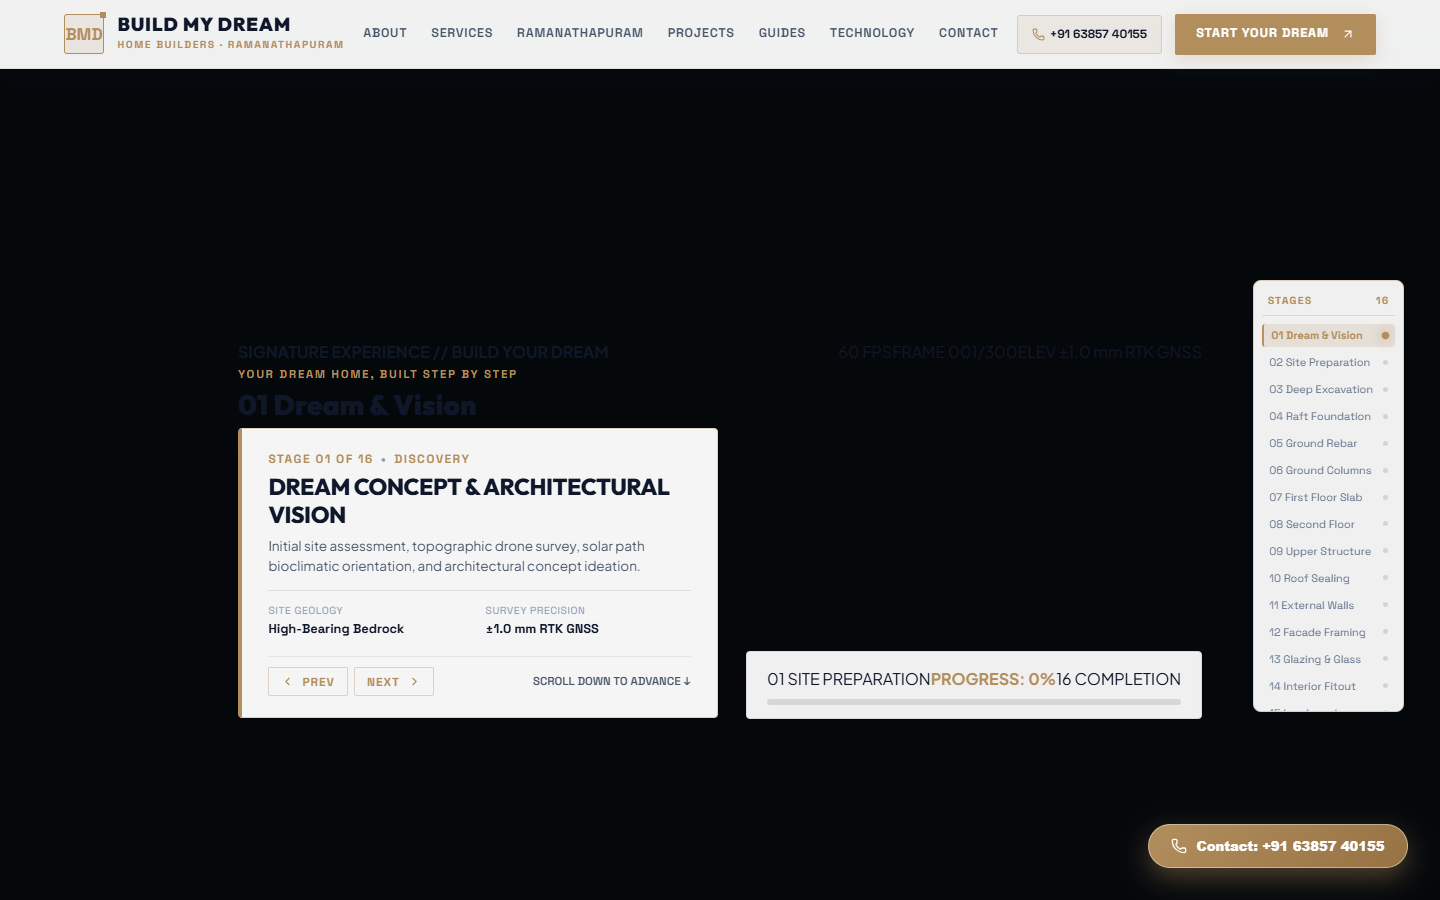
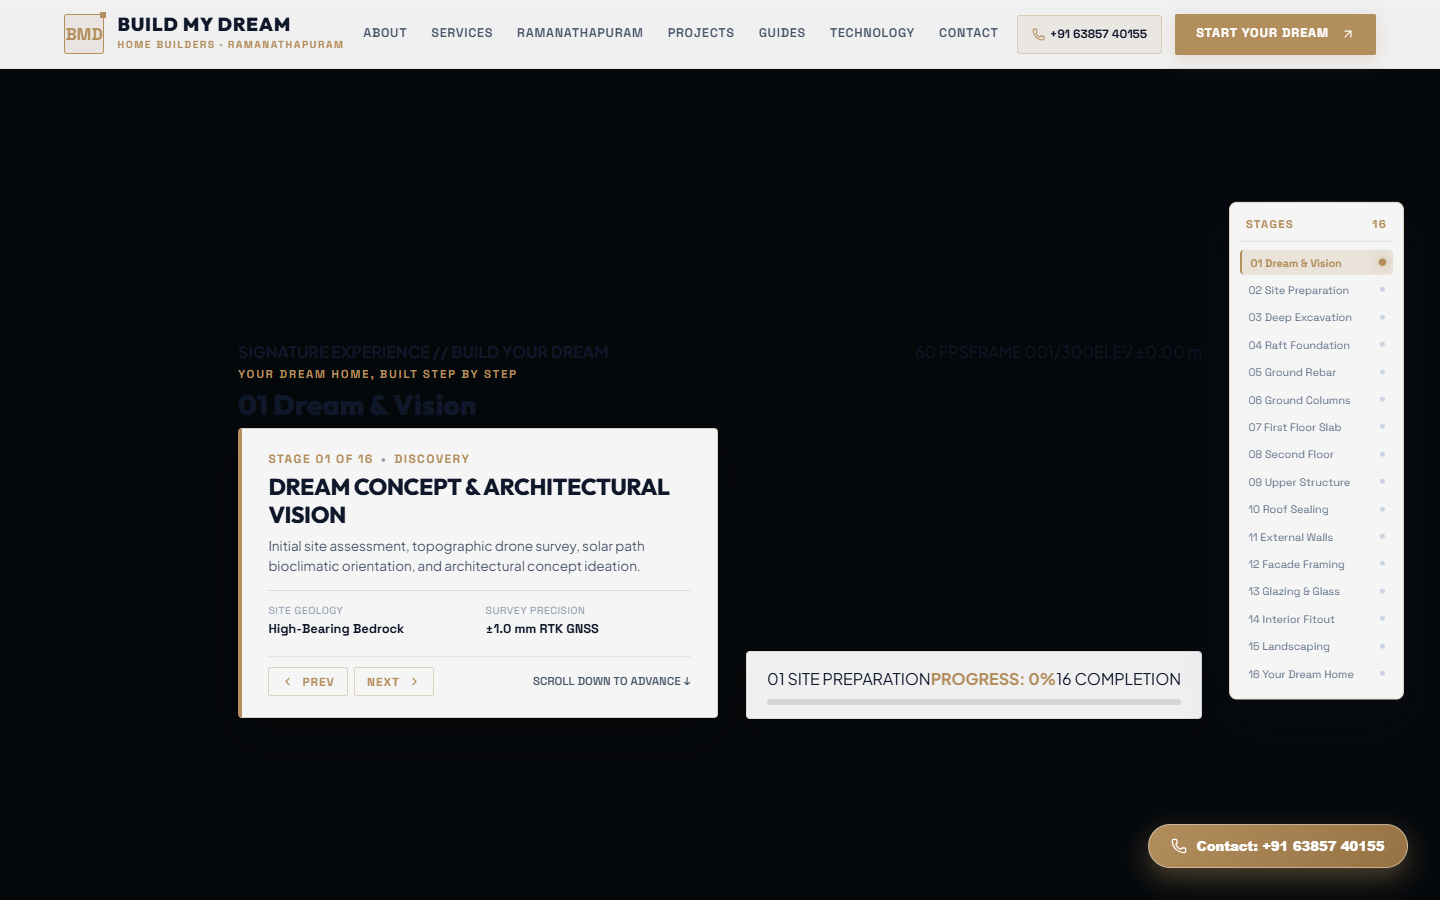
fix: resolve stage tracking and smooth auto-scrolling synchronization in construction scrubber

Changed region(s): [[0.8438, 0.2178, 1.0, 0.8089], [0.625, 0.3733, 0.6562, 0.4044]]

diff --git a/src/components/construction/ConstructionCanvasScrubber.jsx b/src/components/construction/ConstructionCanvasScrubber.jsx
@@ -7,6 +7,7 @@ import '../../styles/canvas.css';
 export function ConstructionCanvasScrubber() {
   const canvasRef = useRef(null);
   const containerRef = useRef(null);
+  const stepperRef = useRef(null);
   const { images, progress, isTier1Ready, isFullyLoaded, totalFrames } = useFramePreloader();
   
   const [currentFrameIndex, setCurrentFrameIndex] = useState(0);
@@ -25,7 +26,7 @@ export function ConstructionCanvasScrubber() {
 
     let img = images[frameIndex];
     if (!img || !img.complete || img.naturalWidth === 0) {
-      for (let offset = 1; offset < 25; offset++) {
+      for (let offset = 1; offset < 35; offset++) {
         const prev = images[Math.max(0, frameIndex - offset)];
         if (prev && prev.complete && prev.naturalWidth > 0) {
           img = prev;
@@ -70,7 +71,7 @@ export function ConstructionCanvasScrubber() {
       drawY = 0;
     }
 
-    ctx.fillStyle = '#FAFAF9';
+    ctx.fillStyle = '#0F172A';
     ctx.fillRect(0, 0, width, height);
 
     ctx.imageSmoothingEnabled = true;
@@ -84,17 +85,17 @@ export function ConstructionCanvasScrubber() {
   useEffect(() => {
     const loop = () => {
       const diff = targetFrameRef.current - displayedFrameRef.current;
-      if (Math.abs(diff) > 0.05) {
+      if (Math.abs(diff) > 0.04) {
         displayedFrameRef.current += diff * 0.18;
         const frameToRender = Math.min(totalFrames - 1, Math.max(0, Math.round(displayedFrameRef.current)));
         setCurrentFrameIndex(frameToRender);
         renderCanvas(frameToRender);
 
         const currentStage = CONSTRUCTION_STAGES.find(
-          (s) => frameToRender >= s.frameStart && frameToRender <= s.frameEnd
-        ) || CONSTRUCTION_STAGES[CONSTRUCTION_STAGES.length - 1];
+          (s) => frameToRender >= (s.startFrame ?? s.frameStart ?? 0) && frameToRender <= (s.endFrame ?? s.frameEnd ?? 299)
+        ) || CONSTRUCTION_STAGES[0];
 
-        setActiveStage(currentStage);
+        setActiveStage((prev) => (prev.id !== currentStage.id ? currentStage : prev));
         setScrubProgress(Math.round((frameToRender / (totalFrames - 1)) * 100));
       }
       animFrameIdRef.current = requestAnimationFrame(loop);
@@ -105,6 +106,16 @@ export function ConstructionCanvasScrubber() {
       if (animFrameIdRef.current) cancelAnimationFrame(animFrameIdRef.current);
     };
   }, [renderCanvas, totalFrames]);
+
+  // Auto-scroll the active stage button inside the right-hand stepper list
+  useEffect(() => {
+    if (stepperRef.current) {
+      const activeEl = stepperRef.current.querySelector('.timeline-step-btn.active');
+      if (activeEl) {
+        activeEl.scrollIntoView({ block: 'nearest', behavior: 'smooth' });
+      }
+    }
+  }, [activeStage]);
 
   // Scroll listener mapped to 0..299 frames
   useEffect(() => {
@@ -128,14 +139,21 @@ export function ConstructionCanvasScrubber() {
     return () => window.removeEventListener('scroll', handleScroll);
   }, [totalFrames]);
 
+  // Jump to specific milestone smoothly
   const jumpToStage = (stage) => {
-    const target = stage.frameStart;
-    targetFrameRef.current = target;
+    const start = stage.startFrame ?? stage.frameStart ?? 0;
+    targetFrameRef.current = start;
     const container = containerRef.current;
     if (container) {
+      const containerTop = container.getBoundingClientRect().top + window.scrollY;
       const scrollableDist = container.offsetHeight - window.innerHeight;
-      const targetScroll = container.offsetTop + (target / (totalFrames - 1)) * scrollableDist;
-      window.scrollTo({ top: targetScroll, behavior: 'smooth' });
+      const targetScroll = containerTop + (start / (totalFrames - 1)) * scrollableDist;
+
+      if (window.__lenis) {
+        window.__lenis.scrollTo(targetScroll, { duration: 1.0 });
+      } else {
+        window.scrollTo({ top: targetScroll, behavior: 'smooth' });
+      }
     }
   };
 
@@ -160,9 +178,9 @@ export function ConstructionCanvasScrubber() {
         ref={containerRef}
         className="scrubber-section"
         style={{
-          height: '420vh',
+          height: '450vh',
           position: 'relative',
-          backgroundColor: '#FAFAF9',
+          backgroundColor: '#0F172A',
           borderTop: '1px solid rgba(15, 23, 42, 0.08)',
           borderBottom: '1px solid rgba(15, 23, 42, 0.08)'
         }}
@@ -199,7 +217,7 @@ export function ConstructionCanvasScrubber() {
                 <div className="hud-telemetry">
                   <span>60 FPS</span>
                   <span>FRAME {String(currentFrameIndex + 1).padStart(3, '0')}/300</span>
-                  <span>ELEV {activeStage.specs?.[1]?.value || '±0.00m'}</span>
+                  <span>ELEV {activeStage.elevation || '±0.00m'}</span>
                 </div>
               </div>
 
@@ -214,7 +232,7 @@ export function ConstructionCanvasScrubber() {
               </div>
 
               {/* Right Vertical Timeline Navigation Dock */}
-              <div className="hud-timeline-stepper">
+              <div ref={stepperRef} className="hud-timeline-stepper desktop-only">
                 <div className="hud-timeline-header">
                   <span>STAGES</span>
                   <span style={{ color: 'var(--accent-gold)', fontWeight: 800 }}>16</span>

diff --git a/src/styles/canvas.css b/src/styles/canvas.css
@@ -130,35 +130,51 @@
 /* Right Side: Interactive Milestone Stepper Dock (White Frosted) */
 .hud-timeline-stepper {
   position: absolute;
-  right: clamp(1rem, 2.5vw, 2.5rem);
-  top: 55%;
+  right: clamp(0.75rem, 2.5vw, 2.5rem);
+  top: 50%;
   transform: translateY(-50%);
   display: flex;
   flex-direction: column;
-  gap: 0.25rem;
-  z-index: 20;
-  max-height: 48vh;
+  gap: 0.2rem;
+  z-index: 25;
+  max-height: clamp(340px, 64vh, 540px);
   overflow-y: auto;
-  padding: 0.75rem 0.5rem;
-  background: rgba(255, 255, 255, 0.94);
-  backdrop-filter: blur(20px);
-  -webkit-backdrop-filter: blur(20px);
+  overflow-x: hidden;
+  padding: 0.85rem 0.65rem;
+  background: rgba(255, 255, 255, 0.96);
+  backdrop-filter: blur(24px);
+  -webkit-backdrop-filter: blur(24px);
   border: 1px solid rgba(179, 142, 93, 0.35);
   border-radius: 8px;
-  box-shadow: 0 20px 45px rgba(0, 0, 0, 0.3);
-  min-width: 145px;
+  box-shadow: 0 20px 48px rgba(15, 23, 42, 0.18);
+  min-width: 175px;
+  max-width: 220px;
+  scrollbar-width: thin;
+  scrollbar-color: var(--accent-gold) rgba(15, 23, 42, 0.06);
+}
+
+.hud-timeline-stepper::-webkit-scrollbar {
+  width: 4px;
+}
+.hud-timeline-stepper::-webkit-scrollbar-track {
+  background: rgba(15, 23, 42, 0.04);
+  border-radius: 2px;
+}
+.hud-timeline-stepper::-webkit-scrollbar-thumb {
+  background: var(--accent-gold);
+  border-radius: 2px;
 }
 
 .hud-timeline-header {
   font-family: var(--font-mono);
-  font-size: 0.65rem;
+  font-size: 0.7rem;
   color: var(--accent-gold);
   letter-spacing: 0.12em;
   text-transform: uppercase;
-  font-weight: 700;
-  padding: 0 0.35rem 0.35rem 0.35rem;
+  font-weight: 800;
+  padding: 0 0.35rem 0.4rem 0.35rem;
   border-bottom: 1px solid rgba(15, 23, 42, 0.1);
-  margin-bottom: 0.25rem;
+  margin-bottom: 0.35rem;
   display: flex;
   justify-content: space-between;
   align-items: center;
@@ -168,14 +184,15 @@
   display: flex;
   align-items: center;
   justify-content: space-between;
-  gap: 0.5rem;
+  gap: 0.6rem;
   background: transparent;
   border: none;
   cursor: pointer;
-  padding: 0.28rem 0.45rem;
-  border-radius: 3px;
+  padding: 0.32rem 0.5rem;
+  border-radius: 4px;
   transition: all var(--duration-fast) ease;
   width: 100%;
+  text-align: left;
 }
 
 .timeline-step-label {

diff --git a/src/hooks/useLenisScroll.js b/src/hooks/useLenisScroll.js
@@ -22,6 +22,8 @@ export function useLenisScroll() {
       infinite: false
     });
 
+    window.__lenis = lenis;
+
     lenis.on('scroll', ScrollTrigger.update);
 
     gsap.ticker.add((time) => {
@@ -32,6 +34,7 @@ export function useLenisScroll() {
 
     return () => {
       lenis.destroy();
+      window.__lenis = null;
       gsap.ticker.remove(lenis.raf);
     };
   }, []);
